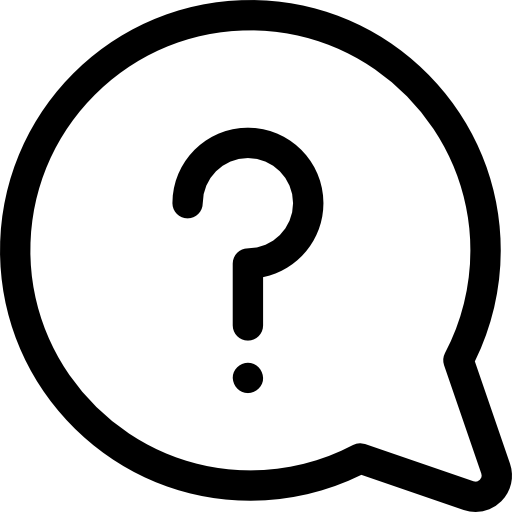
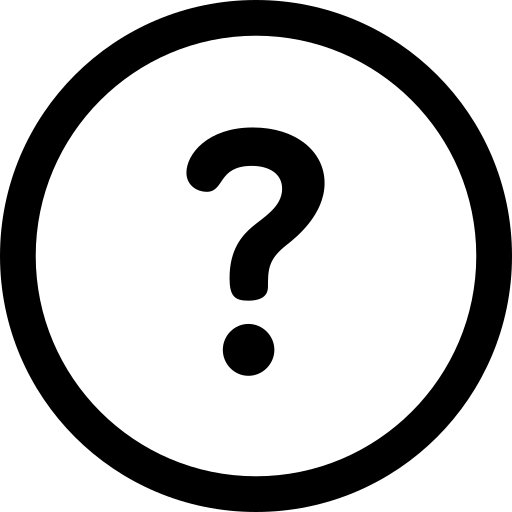
videopop

diff --git a/app/assets/stylesheets/spaces/_spaces_index.scss b/app/assets/stylesheets/spaces/_spaces_index.scss
@@ -666,6 +666,39 @@ a {
   display: none;
 }
 
+.info-icon {
+  font-family: 'Open Sans', sans-serif;
+  position: fixed; // Fixes the position relative to the viewport
+  left: 20px; // Distance from the left side of the viewport
+  bottom: 20px; // Distance from the bottom of the viewport
+  z-index: 1000; // Ensures the icon stays above other elements
+  background: none; // Ensures there is no background unless specified
+  border: none; // No borders unless you want one
+  color: #333; // Set the color of the text, adjust as needed
+  font-size: 16px; // Set the font size as needed
+  text-decoration: none; // Removes underline from links
+}
+
+.card-video {
+  width: 100%; // Ensures the container takes the full width of its parent
+  padding: 10px 0px; // No padding inside the container
+  video {
+    width: 100%; // Video fills the entire width of the container
+    height: auto; // Height adjusts automatically to keep the aspect ratio
+  }
+}
+
+// Ensures video maintains full width on all devices and orientations
+@media (max-width: 768px) { // Adjustments for mobile devices
+  .card-video {
+  width: 100%; // Full width on small screens
+  video {
+      width: 100%; // Full width for the video on small screens
+  }
+  }
+}
+
+
   // NO ESCRIBIR DEBAJO SOLO RESPONSIVE
   ///////////////////////////////////////////////////////////////////////////////////////
   ///////////////////////////////////////////////////////////////////////////////////////

diff --git a/app/assets/config/manifest.js b/app/assets/config/manifest.js
@@ -5,3 +5,4 @@
 //= link popper.js
 //= link bootstrap.min.js
 //= link application.css
+//= link dembow.mp4

diff --git a/config/routes.rb b/config/routes.rb
@@ -47,5 +47,5 @@ Rails.application.routes.draw do
   get 'images/:id/conversion_complete', to: 'images#conversion_complete', as: :conversion_complete
   get 'autocomplete_search', to: 'spaces#autocomplete_search'
   get '/terms-and-conditions', to: 'pages#terms_and_conditions'
-
+  get 'video_popup', to: 'videos#popup', as: :new_video_popup
 end

diff --git a/app/controllers/videos_controller.rb b/app/controllers/videos_controller.rb
@@ -1,0 +1,7 @@
+# app/controllers/videos_controller.rb
+class VideosController < ApplicationController
+    def popup
+      # You might set up some variables here if needed
+    end
+  end
+  
